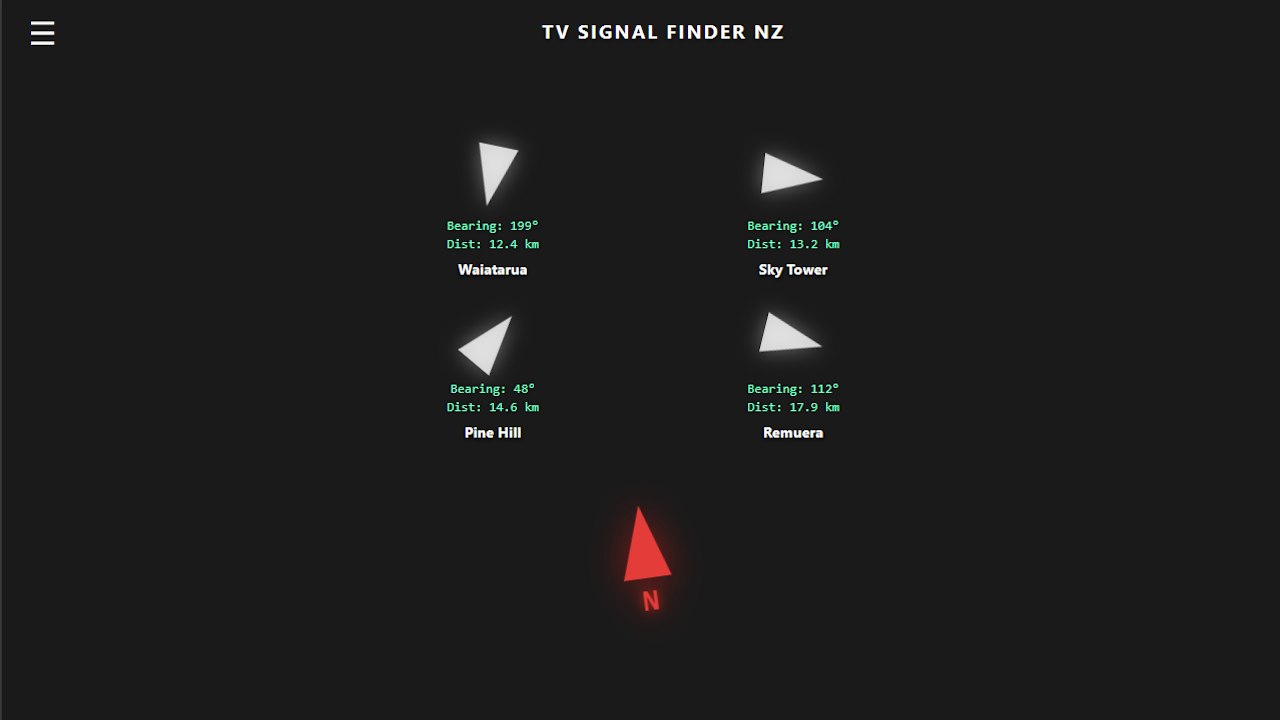
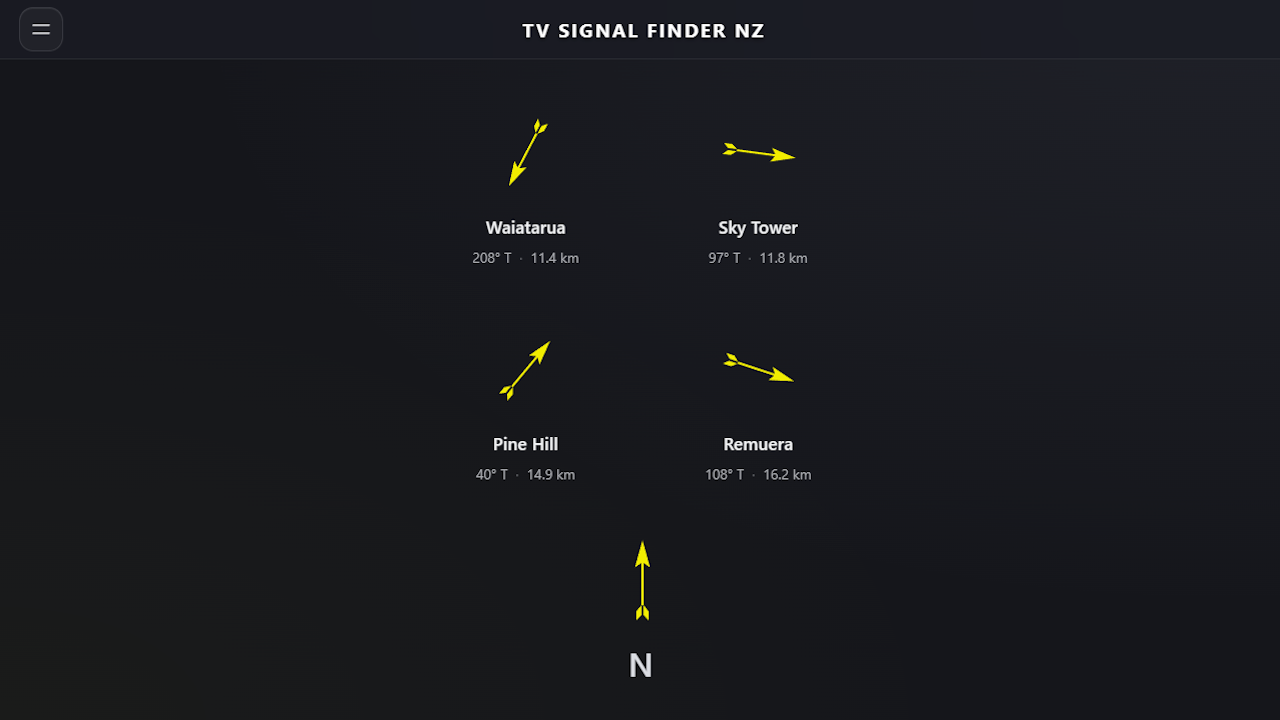
Update PWA screenshots and cache for version 5.17

diff --git a/service-worker.js b/service-worker.js
@@ -1,5 +1,5 @@
 // --- CONFIGURATION ---
-const CACHE_NAME = 'signal-finder-v5.16'; // Increment this to force an update on user devices
+const CACHE_NAME = 'signal-finder-v5.17'; // Increment this to force an update on user devices
 
 const FILES_TO_CACHE = [
   './',
@@ -26,7 +26,13 @@ const FILES_TO_CACHE = [
   'icon.png',
   'icon-192.png',
   'icon-256.png',
-  'icon-512.png'
+  'icon-512.png',
+
+  // Installation screenshots
+  'icons/splash-320.png',
+  'icons/splashDesktop.png',
+  'icons/splashMobile.png',
+  'icons/wide.png'
 ];
 
 // --- INSTALL EVENT ---

diff --git a/README.md b/README.md
@@ -1,6 +1,6 @@
 # Signal Finder PWA
 
-**Version 5.16**
+**Version 5.17**
 
 A mobile web app for finding New Zealand TV transmitters and calculating the direction to point an antenna.
 
